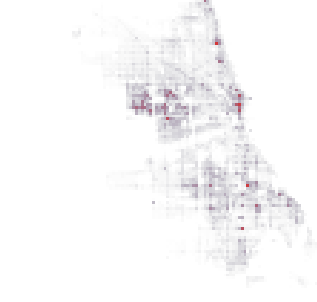
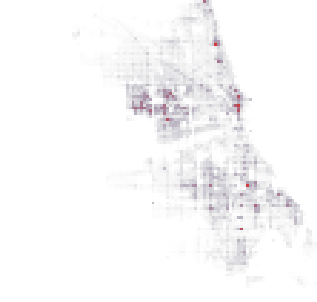
fixing alignment

diff --git a/site/js/scripts.js b/site/js/scripts.js
@@ -93,7 +93,7 @@ loadDB()
 
 function imageOverlay(imurl){
     var imageBounds = new google.maps.LatLngBounds(new google.maps.LatLng(41.644580105000003, -87.899927585), new google.maps.LatLng(42.023024907999996, -87.524388789));
-    var overlayOpts = {opacity:0.5}
+    var overlayOpts = {opacity:1}
     overlay = new google.maps.GroundOverlay(imurl,imageBounds,overlayOpts);
     overlay.setMap(map);
 }
